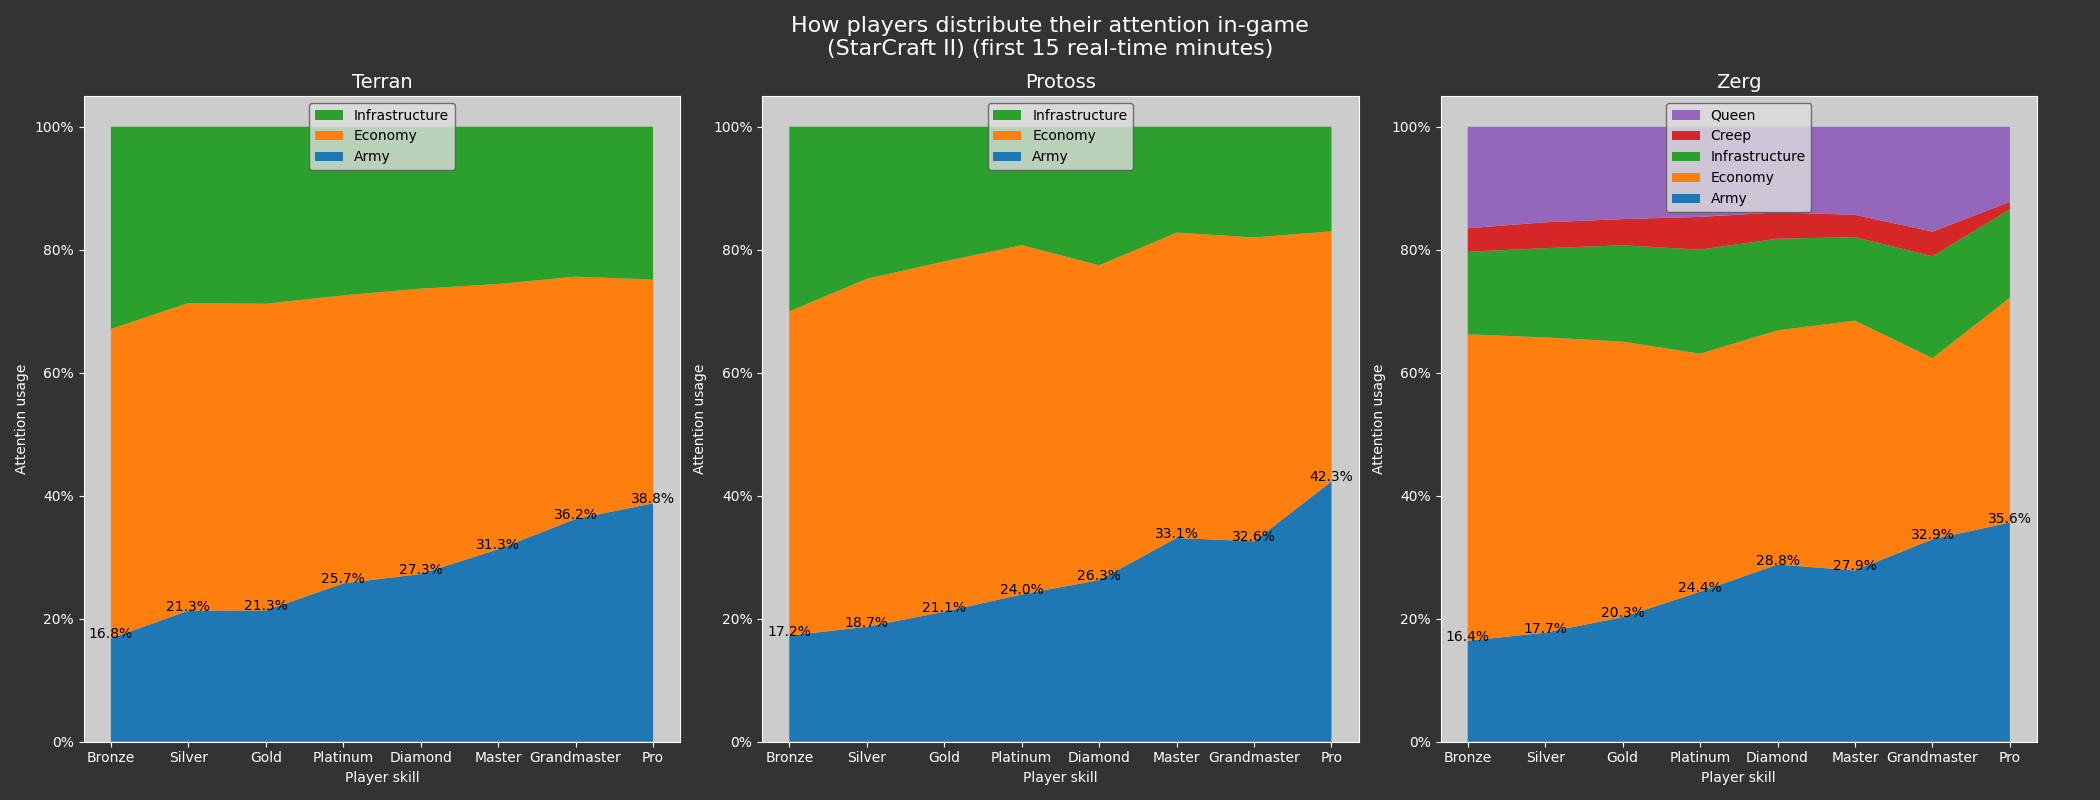
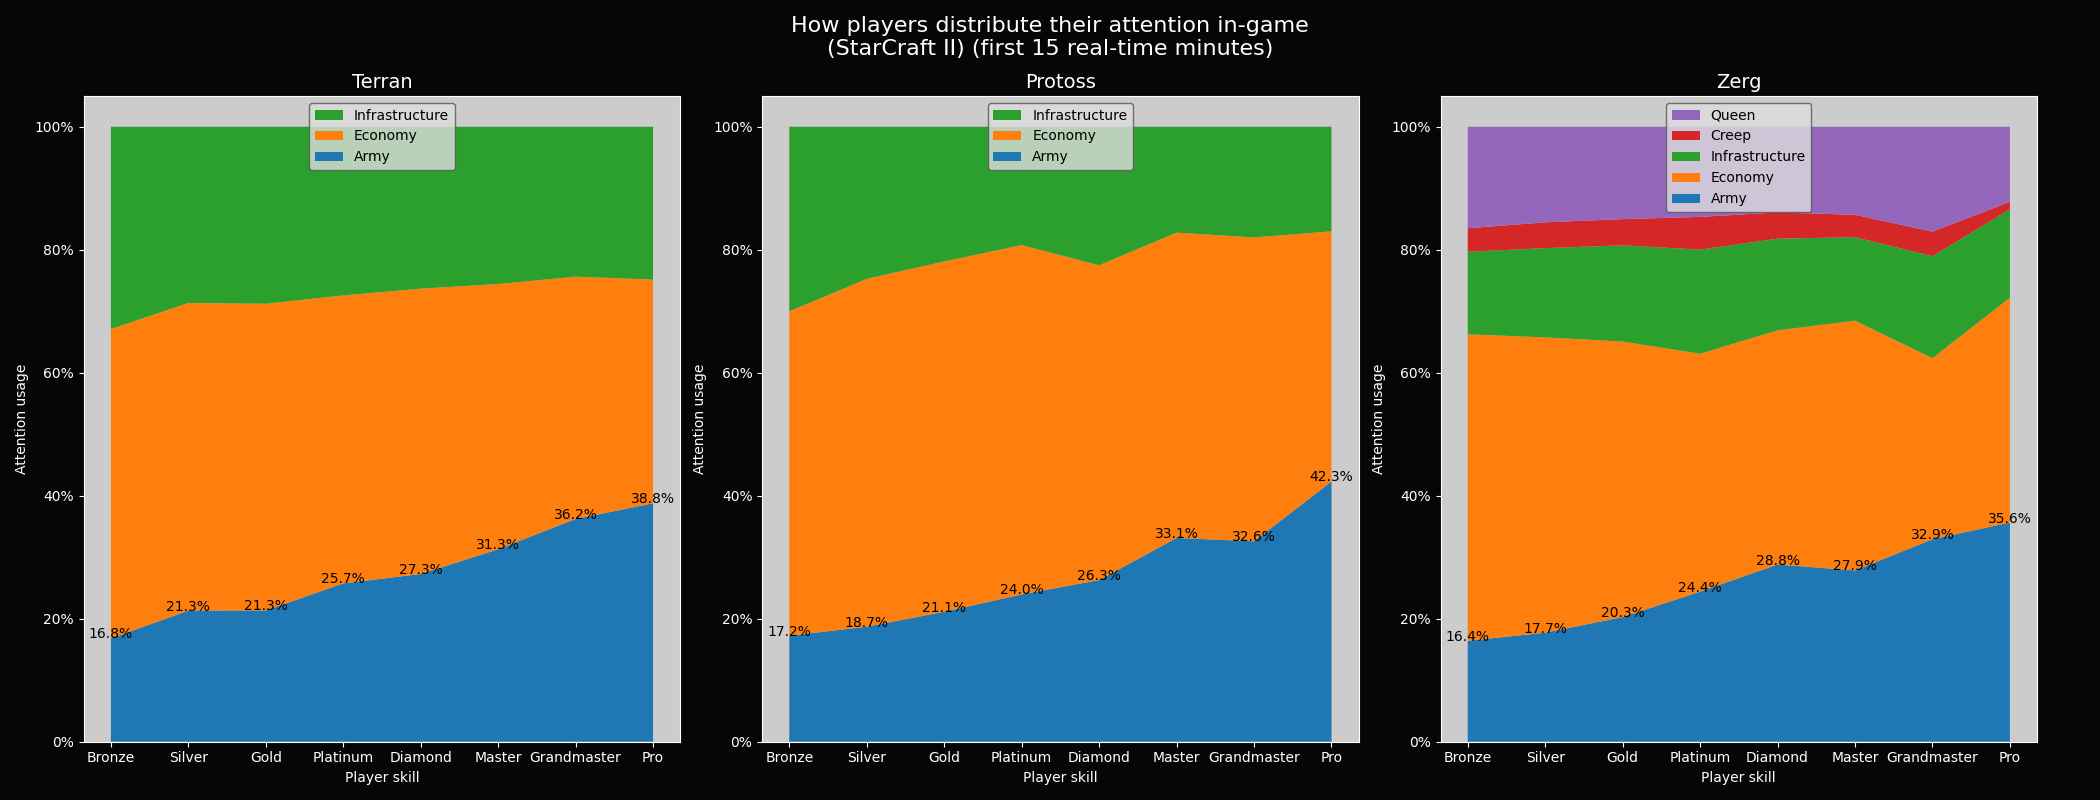
...

diff --git a/plot_data.py b/plot_data.py
@@ -11,7 +11,7 @@ labels = ['army', 'economy', 'infrastructure']
 zlabels = labels + ['creep', 'queen']
 
 # Styling
-bg_color = '#333'
+bg_color = '#060606'
 text_color = '#fff'
 plt.rcParams['figure.facecolor'] = bg_color
 plt.rcParams['xtick.color'] = text_color
